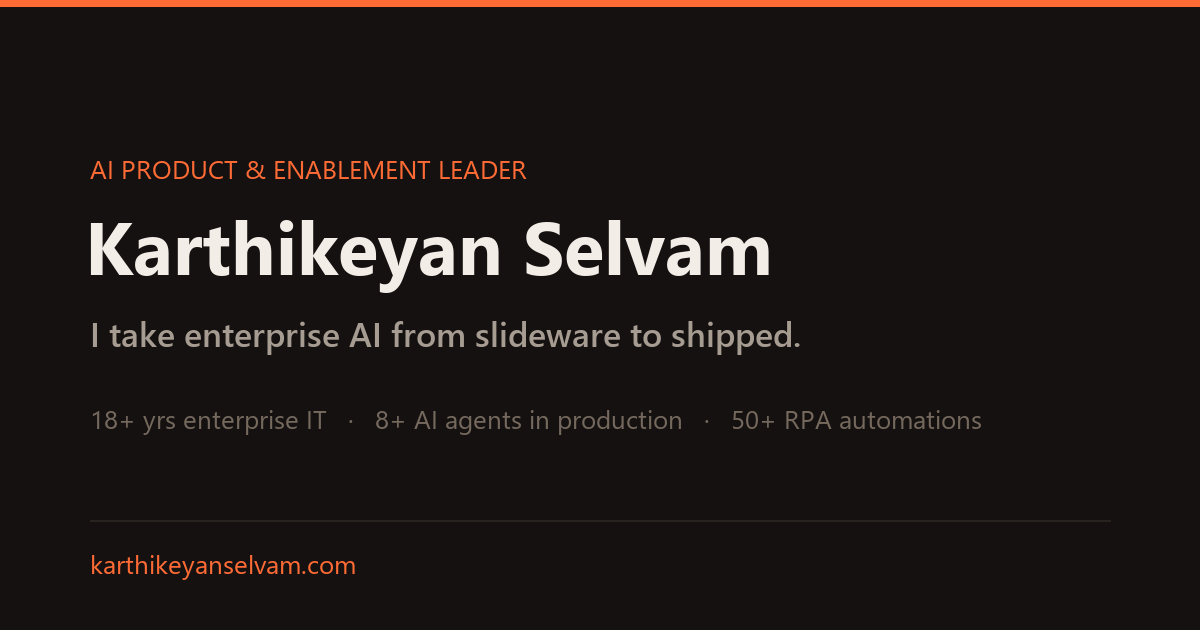
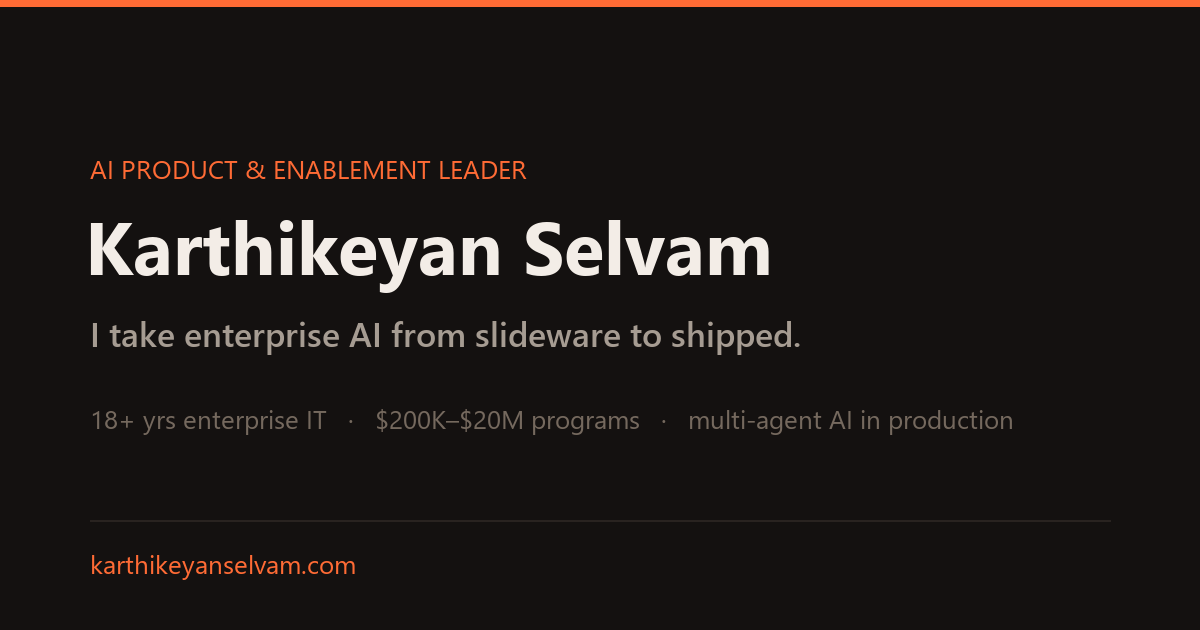
Drop agent counts (say multi-agent systems); remap What-I-lead pillars to real profile
- '8+ agents' removed everywhere (hero fact -> 52K devices across programs; metric -> Multi-agent platform; story stat -> 0 exposed endpoints; experience, chatbot, og-image)
- Pillars now map to target roles: AI Product & Platforms (platform/Copilot for Security/RevokAI), AI Enablement & Adoption (Copilot Enablement Playbook, AI Mission Challenge win), Enterprise Program Delivery (Win11 12K devices, AIOps 40K, RPA) — Windows 11 no longer miscast as AI enablement

Changed region(s): [[0.3083, 0.6333, 0.8325, 0.6937]]

diff --git a/public/index.html b/public/index.html
@@ -601,8 +601,8 @@
                 <div class="fact-lbl">person teams led</div>
             </div>
             <div class="fact">
-                <div class="fact-num">8<em>+</em></div>
-                <div class="fact-lbl">AI agents in production</div>
+                <div class="fact-num">52K</div>
+                <div class="fact-lbl">devices across programs</div>
             </div>
         </div>
     </div>
@@ -619,8 +619,8 @@
         <div class="live-tag"><span class="live-dot"></span>Running now</div>
         <div class="metrics">
             <div class="metric">
-                <div class="metric-num">8<small>+</small></div>
-                <div class="metric-lbl">specialized AI agents, concept to production</div>
+                <div class="metric-num" style="font-size:1.45rem; padding-top:0.45rem;">Multi-agent</div>
+                <div class="metric-lbl">AI platform — concept to production, founded and run by me</div>
             </div>
             <div class="metric">
                 <div class="metric-num">+20<small>%</small></div>
@@ -651,20 +651,20 @@
             <div class="pillar">
                 <svg class="pillar-icon" viewBox="0 0 24 24"><path d="M12 2l3 5.5 6 .9-4.4 4.3 1 6.1L12 16l-5.6 2.8 1-6.1L3 8.4l6-.9L12 2z" stroke-linejoin="round"/></svg>
                 <h3>AI Product &amp; Platforms</h3>
-                <p>Founding, building, and running AI products — roadmap to release. Multi-agent platforms, LLM evaluation programs, and the deploy pipelines behind them.</p>
-                <div class="pillar-where"><b>Where:</b> Atos AI platform · Microsoft Copilot for Security</div>
+                <p>Founding, building, and running AI products — roadmap to release. Multi-agent systems, LLM evaluation programs, governed compliance agents, and the deploy pipelines behind them.</p>
+                <div class="pillar-where"><b>Where:</b> Multi-agent AI platform · Copilot for Security · RevokAI</div>
             </div>
             <div class="pillar">
                 <svg class="pillar-icon" viewBox="0 0 24 24"><path d="M17 21v-2a4 4 0 0 0-4-4H5a4 4 0 0 0-4 4v2M9 11a4 4 0 1 0 0-8 4 4 0 0 0 0 8zM23 21v-2a4 4 0 0 0-3-3.87M16 3.13a4 4 0 0 1 0 7.75" stroke-linecap="round" stroke-linejoin="round"/></svg>
                 <h3>AI Enablement &amp; Adoption</h3>
-                <p>Change management that outlasts the rollout — readiness assessment, adoption metrics, executive alignment, and enterprise migrations done with minimal disruption.</p>
-                <div class="pillar-where"><b>Where:</b> 12,000-device Windows 11 program · enterprise change programs</div>
+                <p>Moving organizations from AI curiosity to dependable, everyday use — structured enablement, peer champions, leaders modeling the change, and adoption that's measured, not assumed.</p>
+                <div class="pillar-where"><b>Where:</b> Copilot Enablement Playbook · AI Mission Challenge 2025 winner</div>
             </div>
             <div class="pillar">
                 <svg class="pillar-icon" viewBox="0 0 24 24"><path d="M12 20V10M18 20V4M6 20v-4" stroke-linecap="round"/></svg>
-                <h3>Automation &amp; Operations</h3>
-                <p>RPA at scale, AIOps with Nexthink, and enterprise backup &amp; recovery — the operational backbone that turns AI ambition into reliable, measured delivery.</p>
-                <div class="pillar-where"><b>Where:</b> National Grid (40,000-device estate) · Atos HR / Finance / Procurement</div>
+                <h3>Enterprise Program Delivery</h3>
+                <p>Programs from $200K to $20M, teams of up to 20 — migrations, AIOps, backup &amp; recovery, and RPA at scale, owned end to end from budget to executive stakeholder.</p>
+                <div class="pillar-where"><b>Where:</b> Windows 11 (12,000 devices) · National Grid AIOps (40,000) · 50+ RPA automations</div>
             </div>
         </div>
     </div>
@@ -943,7 +943,7 @@
               before: { big: '7 failures', small: 'multi-region blocked' }, after: { big: '1 command', small: 'idempotent deploy' } },
             { kind: 'stat', eyebrow: 'By Design', title: 'Governed, efficient, in production',
               body: 'Auth-gated, running real consulting deliverables daily — engineered with governance and cost discipline, not for a demo.',
-              stats: [ { num: 8, suffix: '+', lbl: 'AI agents' }, { num: 100, suffix: '%', lbl: 'audit-traceable', gold: true }, { num: 1, lbl: 'command to deploy' } ] }
+              stats: [ { num: 0, lbl: 'exposed endpoints' }, { num: 100, suffix: '%', lbl: 'audit-traceable', gold: true }, { num: 1, lbl: 'command to deploy' } ] }
         ],
         ocm: [
             { kind: 'claim', eyebrow: 'The Wedge', title: 'I turn consulting methodology into auditable software.',

diff --git a/functions-chat/index.js b/functions-chat/index.js
@@ -33,7 +33,7 @@ FACTS YOU MAY USE (your only source of truth):
 
 Identity: Karthikeyan Selvam — AI Product & Enablement Leader. 18+ years in enterprise IT, progressing from consultant roles to Business Manager. Program leadership at scale: he has delivered programs with budgets ranging from $200K to $20M and led cross-functional teams of up to 20 people. Based in Middletown, Delaware, USA. Education: Bachelor's in Computer Science, University of Madras (2004–2007).
 
-Current role: Atos IT Solutions & Services (March 2015 – present), currently Business Manager – AI (Cloud & Modern Infrastructure). He founded and leads an enterprise multi-agent AI platform on Google Cloud (Cloud Run, Firestore, Firebase) powered by Vertex AI / Gemini — took it from concept to production and owns roadmap, delivery, and adoption across 8+ specialized agents. The platform encodes consulting methodologies into skill-based agents (Python/FastAPI) producing version-tagged, audit-traceable deliverables — compressing multi-day consulting work into on-demand output. He built its AI governance: authentication and role-based access on all endpoints, an automated model-lifecycle steward that detects retired LLMs and migrates agents to supported models, and accuracy guardrails that block unsafe recommendations when data is insufficient. Runs under a strict regional-only data-residency policy, cost-engineered end to end (scale-to-zero, token budgeting) — do not quote specific platform running costs in dollars.
+Current role: Atos IT Solutions & Services (March 2015 – present), currently Business Manager – AI (Cloud & Modern Infrastructure). He founded and leads an enterprise multi-agent AI platform on Google Cloud (Cloud Run, Firestore, Firebase) powered by Vertex AI / Gemini — took it from concept to production and owns roadmap, delivery, and adoption across a portfolio of specialized agents (describe it as a multi-agent system — do not quote a specific number of agents). The platform encodes consulting methodologies into skill-based agents (Python/FastAPI) producing version-tagged, audit-traceable deliverables — compressing multi-day consulting work into on-demand output. He built its AI governance: authentication and role-based access on all endpoints, an automated model-lifecycle steward that detects retired LLMs and migrates agents to supported models, and accuracy guardrails that block unsafe recommendations when data is insufficient. Runs under a strict regional-only data-residency policy, cost-engineered end to end (scale-to-zero, token budgeting) — do not quote specific platform running costs in dollars.
 
 Platform agents include: a Change Management agent (formal OCM methodology, 4 phases / 18 deliverables, version-tagged outputs, branded PDF export), a Google Workspace license right-sizing agent (reads real tenant usage via Reports API, verified SKU catalog, zero-usage guard so quiet-but-active users are never wrongly downgraded), and an infrastructure health-check agent (multi-stage analysis pipeline producing PDF reports, emailed automatically).
 

diff --git a/public/experience.html b/public/experience.html
@@ -321,7 +321,7 @@
                     <div class="timeline-period">2015 – Present · Atos</div>
                     <div class="timeline-role">Business Manager — AI (Cloud &amp; Modern Infrastructure)</div>
                     <div class="timeline-org">Atos IT Solutions &amp; Services — GCP / Vertex AI</div>
-                    <div class="timeline-desc">Founded and lead an enterprise multi-agent AI platform on Google Cloud (Cloud Run, Firestore, Firebase) powered by Vertex AI / Gemini — concept to production, 8+ specialized agents. Own roadmap, delivery, and adoption; encode firm methodologies into skill-based agents that produce version-tagged, audit-traceable deliverables, cutting multi-day consulting work to on-demand output. Built AI governance (role-based access, an automated model-lifecycle steward) and accuracy guardrails, all under strict regional-only data-residency policy.</div>
+                    <div class="timeline-desc">Founded and lead an enterprise multi-agent AI platform on Google Cloud (Cloud Run, Firestore, Firebase) powered by Vertex AI / Gemini — a multi-agent system taken from concept to production. Own roadmap, delivery, and adoption; encode firm methodologies into skill-based agents that produce version-tagged, audit-traceable deliverables, cutting multi-day consulting work to on-demand output. Built AI governance (role-based access, an automated model-lifecycle steward) and accuracy guardrails, all under strict regional-only data-residency policy.</div>
                     <div class="timeline-tags">
                         <span class="timeline-tag">Vertex AI / Gemini</span>
                         <span class="timeline-tag">Cloud Run · FastAPI</span>
@@ -432,7 +432,7 @@
         <div class="scope">
             <div class="scope-row">
                 <div class="scope-key">Platform</div>
-                <div class="scope-val"><b>Founded and run</b> an enterprise multi-agent AI platform — 8+ agents, concept to production, governance and cost engineering included.</div>
+                <div class="scope-val"><b>Founded and run</b> an enterprise multi-agent AI platform — concept to production, governance and cost engineering included.</div>
             </div>
             <div class="scope-row">
                 <div class="scope-key">Clients</div>
